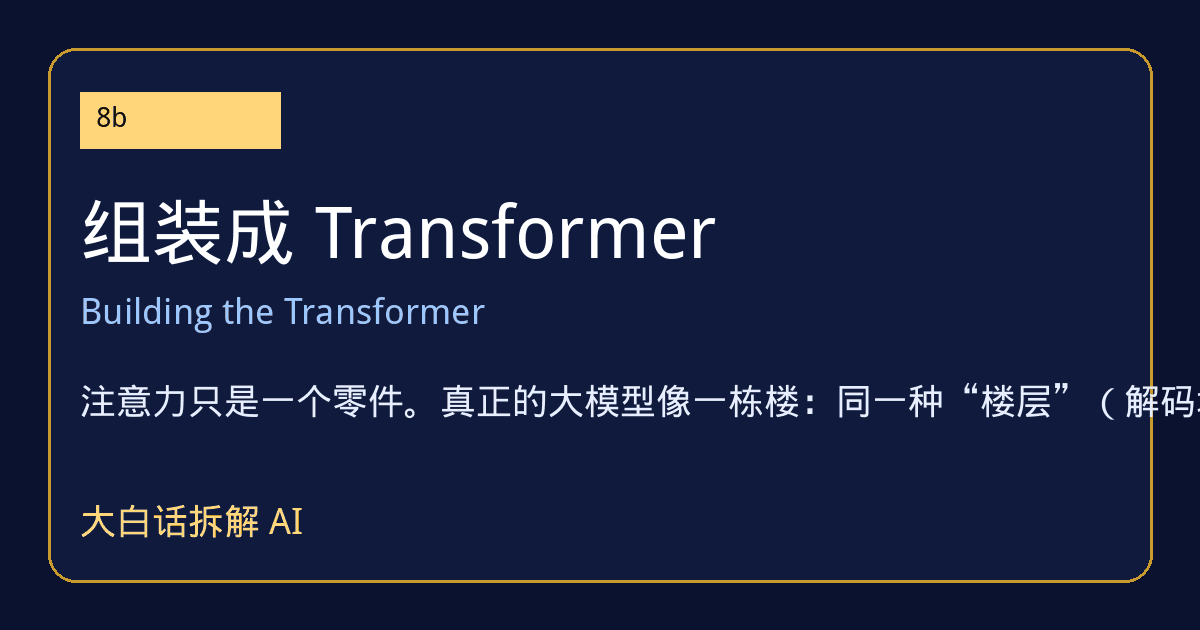
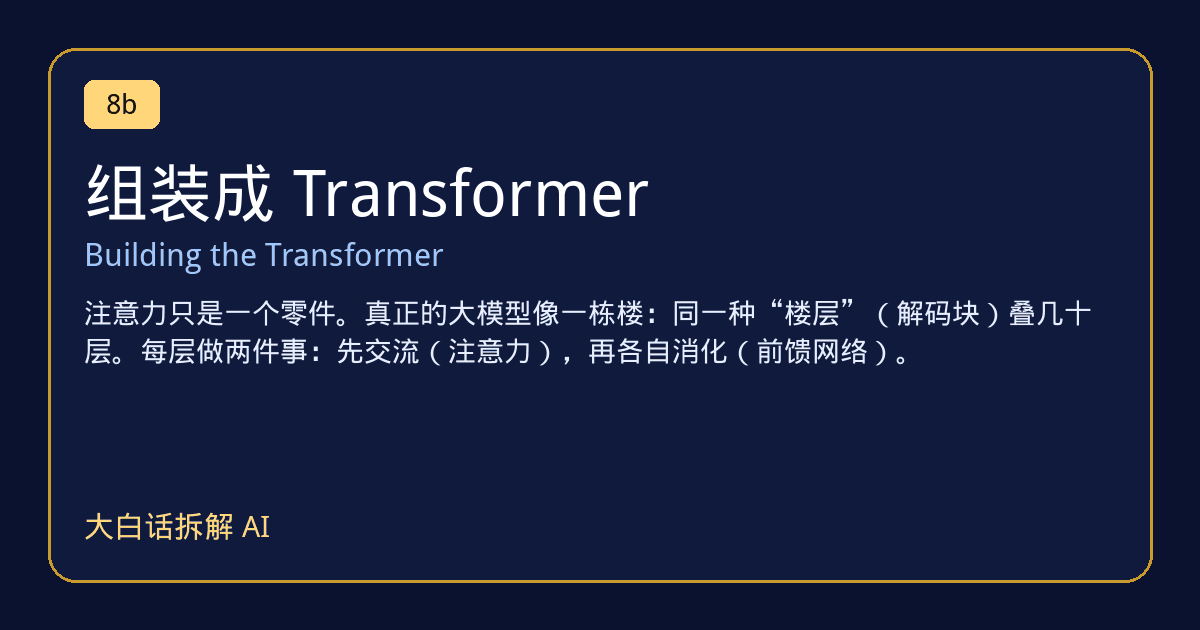
fix: keep the station share card inside its frame
Wrap the bilingual title and the hook inside the gold card, and keep the share sheet’s title and link inside the phone width.

diff --git a/web/tests/e2e/r58.spec.ts b/web/tests/e2e/r58.spec.ts
@@ -67,4 +67,32 @@ test.describe('hub, reminder, certificate, demos', () => {
     await expect(play).toHaveAttribute('aria-pressed', 'false');
     expect(errs).toEqual([]);
   });
+  test('share this stop: the card, title and link stay inside the sheet', async ({ page }) => {
+    const errs = await open(page, './?lang=zh#D/0');
+    const spill = async (tag: string) => {
+      await page.locator('[data-ml-share]').click();
+      const sheet = page.locator('.ml-share');
+      await expect(sheet).toBeVisible();
+      await expect(sheet.locator('img')).toBeVisible();
+      await page.waitForFunction(() => { const img = document.querySelector<HTMLImageElement>('.ml-share img'); return !!img && img.complete && img.naturalWidth > 0; });
+      const bad = await sheet.evaluate((root) => {
+        const view = root.getBoundingClientRect(), out: string[] = [];
+        if (view.width > innerWidth + 1) out.push(`sheet ${Math.round(view.width)} > ${innerWidth}`);
+        for (const el of root.querySelectorAll<HTMLElement>('.l4-kn, .ml-dy, img, .l4-sin')) {
+          const r = el.getBoundingClientRect();
+          const name = el.className || el.tagName;
+          if (r.right > innerWidth + 1 || r.left < -1) out.push(`${name} x ${Math.round(r.left)}–${Math.round(r.right)}`);
+          if (el.scrollWidth > el.clientWidth + 1) out.push(`${name} cut ${el.scrollWidth - el.clientWidth}`);
+        }
+        return out;
+      });
+      expect(bad, tag).toEqual([]);
+      await sheet.locator('[data-s="x"]').click();
+      await expect(sheet).toHaveCount(0);
+    };
+    await spill('zh 0');
+    await open(page, './?lang=en#D/15b');
+    await spill('en 15b');
+    expect(errs).toEqual([]);
+  });
 });

diff --git a/web/src/dv/ml.ts b/web/src/dv/ml.ts
@@ -130,8 +130,8 @@ export function wire(host: HTMLElement, k: string, l: L, mk: Mk, prevQ: string, 
   host.querySelector('[data-ml-share]')?.addEventListener('click', (e) => {
     e.stopPropagation();
     const base = import.meta.env.BASE_URL, page = `${location.origin}${base}s/${k}/`;
-    const box = document.createElement('div'); box.className = 'l4-sheet'; box.setAttribute('role', 'dialog');
-    box.innerHTML = `<div class="l4-sin"><header class="l4-sh"><b class="l4-kn">${esc(tx(M.goal, l))}</b></header><div class="l4-sbody"><img alt="${esc(tx(M.goal, l))}" src="${base}og-st/${k}.png" width="320" style="width:100%;height:auto;border-radius:12px"><p class="ml-dy">${esc(page)}</p></div><footer class="l4-sf"><button type="button" class="l4-b" data-s="x">${z('关闭', 'Close')}</button></footer></div>`;
+    const box = document.createElement('div'); box.className = 'l4-sheet ml-share'; box.setAttribute('role', 'dialog');
+    box.innerHTML = `<div class="l4-sin"><header class="l4-sh"><b class="l4-kn">${esc(tx(M.goal, l))}</b></header><div class="l4-sbody"><img alt="${esc(tx(M.goal, l))}" src="${base}og-st/${k}.png"><p class="ml-dy">${esc(page)}</p></div><footer class="l4-sf"><button type="button" class="l4-b" data-s="x">${z('关闭', 'Close')}</button></footer></div>`;
     box.addEventListener('click', (ev) => { ev.stopPropagation(); const t = ev.target as HTMLElement; if (t === box || t.closest('[data-s="x"]')) box.remove(); });
     (host.closest('#l4') ?? host).appendChild(box);
   });

diff --git a/web/src/dv/ml.css b/web/src/dv/ml.css
@@ -13,6 +13,12 @@
 .ml-pic b { color: #fff; font-size: 15px; } .ml-pic span { color: #cfe0ff; }
 .ml-how, .ml-dy { margin: 0; font-size: 13.5px; color: #d5e2ff; line-height: 1.45; }
 .ml-dy b { color: #ffe08a; } .ml-dy a { color: #9cc8ff; }
+/* share sheet: the preview and the link stay inside the phone width */
+.ml-share { overflow: hidden; }
+.ml-share .l4-sin, .ml-share .l4-sh, .ml-share .l4-sbody { min-width: 0; max-width: 100%; }
+.ml-share .l4-sbody { overflow-x: hidden; }
+.ml-share img { display: block; width: 100%; max-width: 100%; height: auto; border-radius: 12px; }
+.ml-share .ml-dy { overflow-wrap: anywhere; }
 /* unlabeled dots for the parts of this stop; no method names */
 .ml-bar { flex: 1 1 100%; display: flex; align-items: center; }
 .ml-gs { display: flex; gap: 2px; align-items: center; }

diff --git a/web/scripts/og-stations.py b/web/scripts/og-stations.py
@@ -1,7 +1,9 @@
 """One 1200x630 PNG per derivation station, for s/*/ Open Graph tags and the in-app share card.
+   Text stays inside the gold frame: titles and the hook wrap, and a line that still does not fit is clamped.
    Flat colours, quantized, so the files stay small. Run from web/: python3 scripts/og-stations.py
 """
 import json
+import re
 from pathlib import Path
 from PIL import Image, ImageDraw, ImageFont
 
@@ -11,27 +13,94 @@ en = json.loads((web / 'src/dv/en-st.json').read_text())['st']
 keys = ['0', 'P', '1', '2', '3', '4', '5', '6', '7', '8a', '8b', '9', 'E', '10', '11', '12', '13', '14', 'S', '15a', '15b', 'A', '16']
 out = web / 'public' / 'og-st'
 out.mkdir(parents=True, exist_ok=True)
-font_b = ImageFont.truetype('/usr/share/fonts/truetype/wqy/wqy-microhei.ttc', 72)
-font_m = ImageFont.truetype('/usr/share/fonts/truetype/wqy/wqy-microhei.ttc', 36)
-font_s = ImageFont.truetype('/usr/share/fonts/truetype/wqy/wqy-microhei.ttc', 28)
+FONT = '/usr/share/fonts/truetype/wqy/wqy-microhei.ttc'
+# the gold frame is (48, 48)–(1152, 582); glyphs stay inside this inset
+LEFT, RIGHT, TOP, BOTTOM = 84, 1116, 80, 548
+MAX_W = RIGHT - LEFT
+TOK = re.compile(r'[\u2E80-\u9FFF\uFF00-\uFFEF\u3000-\u303F](?:[，。、：；！？）」』”’,.!?:;)]*)|[^\s\u2E80-\u9FFF\uFF00-\uFFEF\u3000-\u303F]+\s*|\s+')
 
-def clip(s, n):
-    s = ' '.join(s.split())
-    return s if len(s) <= n else s[: n - 1] + '…'
+def plain(s):
+    s = re.sub(r'⟦[a-z]:([^⟧]*)⟧', r'\1', s)
+    s = re.sub(r'\*\*([^*]+)\*\*', r'\1', s)
+    s = re.sub(r'`([^`]+)`', r'\1', s)
+    s = re.sub(r'\{#[^}]+\}', '', s)
+    return ' '.join(s.split())
+
+def width(draw, text, font):
+    return draw.textlength(text, font=font)
+
+def wrap(draw, text, font, max_w, max_lines):
+    parts = TOK.findall(text) or ([text] if text else [])
+    lines, cur = [], ''
+    for t in parts:
+        trial = cur + t
+        if width(draw, trial, font) <= max_w or not cur.strip():
+            cur = trial
+            continue
+        lines.append(cur.rstrip())
+        cur = t.lstrip()
+    if cur.strip():
+        lines.append(cur.rstrip())
+    if len(lines) > max_lines:
+        lines = lines[:max_lines]
+        ell = '…'
+        while lines[-1] and width(draw, lines[-1] + ell, font) > max_w:
+            lines[-1] = lines[-1][:-1]
+        lines[-1] = lines[-1].rstrip() + ell
+    return [ln for ln in lines if ln]
+
+def fit(draw, text, size, min_size, max_lines):
+    for z in range(size, min_size - 1, -2):
+        font = ImageFont.truetype(FONT, z)
+        lines = wrap(draw, text, font, MAX_W, 99)
+        if len(lines) <= max_lines and all(width(draw, ln, font) <= MAX_W + 0.5 for ln in lines):
+            return font, lines
+    font = ImageFont.truetype(FONT, min_size)
+    return font, wrap(draw, text, font, MAX_W, max_lines)
+
+def paint(draw, text, font, x, y, fill, key):
+    bb = draw.textbbox((x, y), text, font=font)
+    if bb[0] < LEFT - 1 or bb[2] > RIGHT + 1 or bb[1] < TOP - 1 or bb[3] > BOTTOM + 1:
+        raise SystemExit(f'{key}: "{text}" spills the card {bb}')
+    draw.text((x, y), text, font=font, fill=fill)
+    return bb[3]
 
 for i, k in enumerate(keys):
     im = Image.new('RGB', (1200, 630), '#0b1230')
     d = ImageDraw.Draw(im)
     d.rounded_rectangle((48, 48, 1152, 582), 28, fill='#101a3d', outline='#c99a2e', width=3)
-    d.rectangle((80, 92, 280, 148), fill='#ffd77a')
-    title = st[i]['n']
-    sub = en[i]['n']
-    hook = clip(st[i].get('ly', {}).get('hook') or st[i].get('s') or '', 42)
-    d.text((96, 100), f'{k}', fill='#1a1204', font=font_s)
-    d.text((80, 190), title, fill='#ffffff', font=font_b)
-    d.text((80, 290), sub, fill='#9cc8ff', font=font_m)
-    d.text((80, 380), hook, fill='#e6eeff', font=font_m)
-    d.text((80, 500), '大白话拆解 AI', fill='#ffd77a', font=font_m)
+    y = TOP
+    kf = ImageFont.truetype(FONT, 28)
+    kw = width(d, k, kf)
+    cw, ch = max(72, int(kw + 44)), 48
+    d.rounded_rectangle((LEFT, y, LEFT + cw, y + ch), 10, fill='#ffd77a')
+    tb = d.textbbox((0, 0), k, font=kf)
+    d.text((LEFT + (cw - (tb[2] - tb[0])) / 2 - tb[0], y + (ch - (tb[3] - tb[1])) / 2 - tb[1]), k, font=kf, fill='#1a1204')
+    y += ch + 28
+    title = plain(st[i]['n'])
+    sub = plain(en[i]['n'])
+    hook = plain((st[i].get('ly') or {}).get('hook') or st[i].get('s') or '')
+    tf, tls = fit(d, title, 64, 40, 2)
+    for ln in tls:
+        y = paint(d, ln, tf, LEFT, y, '#ffffff', k) + 6
+    y += 8
+    sf, sls = fit(d, sub, 32, 22, 2)
+    for ln in sls:
+        y = paint(d, ln, sf, LEFT, y, '#9cc8ff', k) + 4
+    y += 18
+    brand = '大白话拆解 AI'
+    bf = ImageFont.truetype(FONT, 30)
+    brand_top = BOTTOM - 40
+    room = brand_top - 16 - y
+    hf, hls = fit(d, hook, 28, 22, 2 if room >= 28 * 2 + 8 else 1)
+    # if two lines still will not fit above the brand, keep one
+    step = int(hf.size * 1.35)
+    if y + step * len(hls) > brand_top - 8:
+        hf, hls = fit(d, hook, hf.size, 22, 1)
+        step = int(hf.size * 1.35)
+    for ln in hls:
+        y = paint(d, ln, hf, LEFT, y, '#e6eeff', k) + 6
+    paint(d, brand, bf, LEFT, brand_top, '#ffd77a', k)
     q = im.quantize(32, method=Image.Quantize.MEDIANCUT, dither=Image.Dither.NONE)
     q.save(out / f'{k}.png', optimize=True)
 print(f'wrote {len(keys)} og-st pngs')
